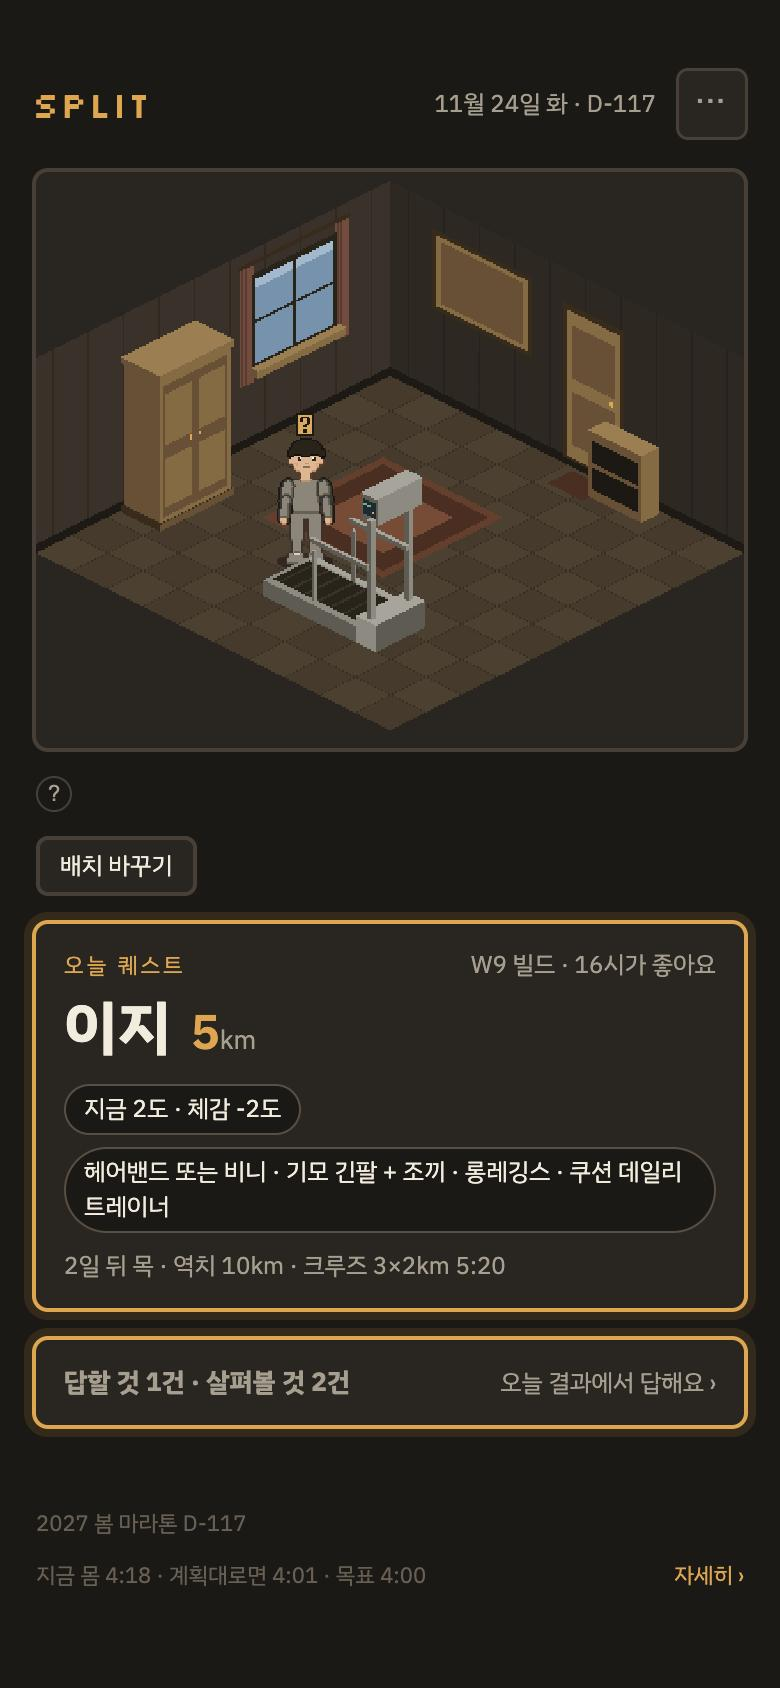
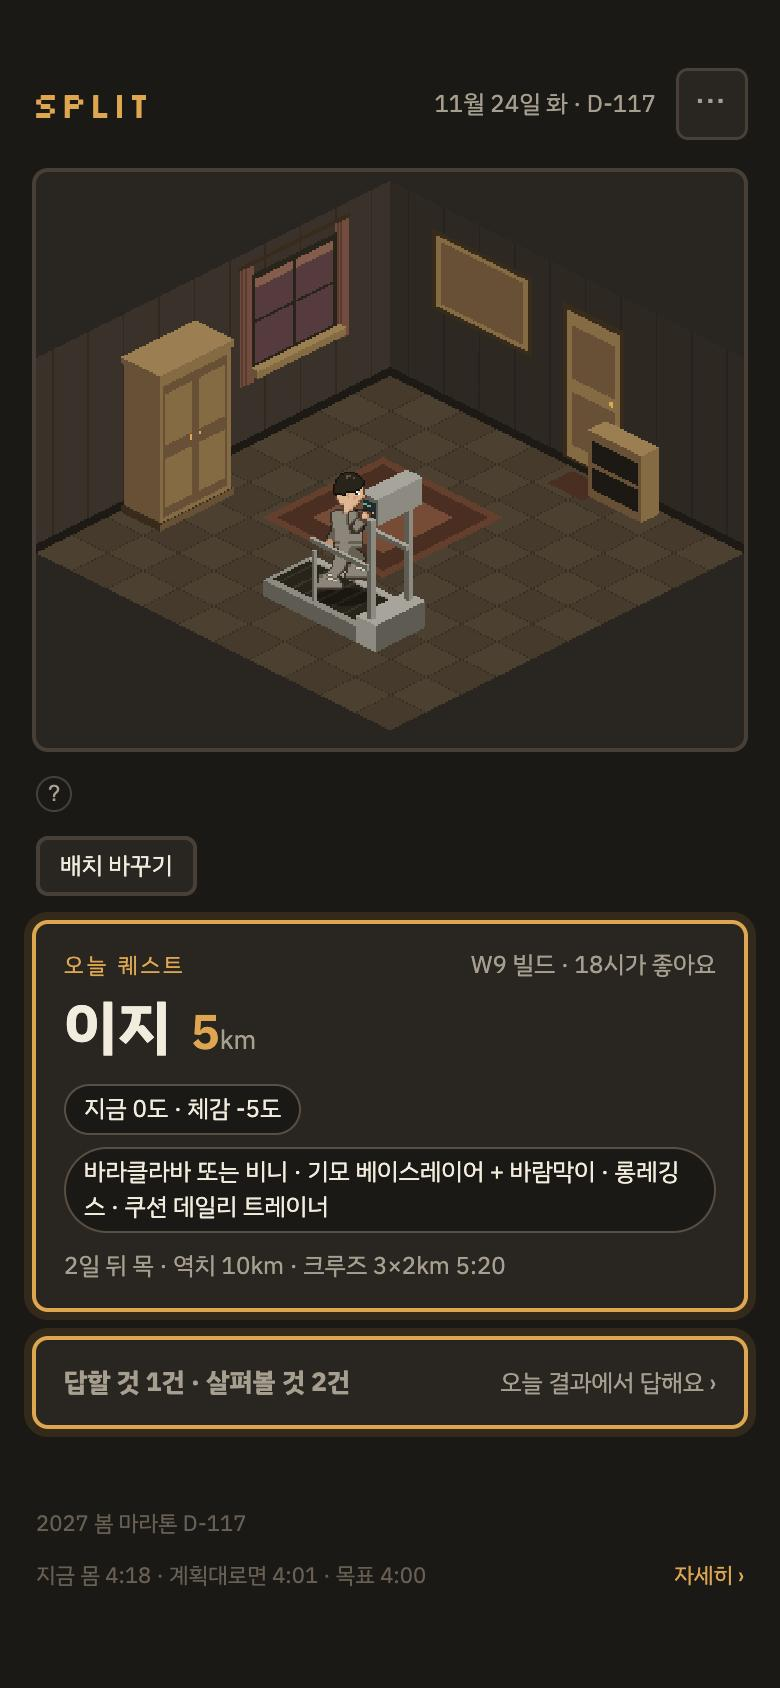
스플릿 화면 사진: 러닝머신 위 캐릭터가 뛴다 (앱 화면에서 뽑은 그림 두 장을 겹침, 그림 코드는 싣지 않음)

Changed region(s): [[0.1231, 0.6469, 0.8923, 0.7393], [0.3385, 0.2464, 0.4923, 0.3697], [0.3077, 0.1232, 0.4308, 0.2156]]

diff --git a/docs/services/split/index.html b/docs/services/split/index.html
@@ -25,12 +25,12 @@
 <main>
 <div class="sub-head feature"><div class="wrap">
 <div><p class="crumb">서비스 · 준비 중</p><p class="pixel" aria-hidden="true">SPLIT</p><h1>스플릿</h1><p class="lead">목표 대회에 맞춰 훈련 계획을 짜고, 뛴 기록에 맞춰 고쳐 주는 러닝 앱입니다.</p></div>
-<span class="shot"><img src="/img/split-room.jpg" alt="내 방 화면" loading="lazy"></span>
+<span class="shot"><img src="/img/split-room.jpg" alt="내 방 화면" loading="lazy"><span class="room" aria-hidden="true"><i></i></span></span>
 </div></div>
 <nav class="subnav" aria-label="앱 메뉴"><div class="wrap"><a href="#what">소개</a><a href="#shots">화면</a><a href="#env">사용 환경</a><a href="/split/notice/">공지사항</a><a href="/split/privacy/">개인정보처리방침</a><a href="/support/">문의</a></div></nav>
 <section id="what"><div class="wrap two"><h2>이런 앱입니다</h2><div class="values stack"><div><span class="n">01</span><h3>목표에 맞춘 계획</h3><p>대회 날짜와 목표 기록을 넣으면 그날까지의 훈련을 주 단위로 짜 줍니다.</p></div><div><span class="n">02</span><h3>뛴 만큼 다시 맞춤</h3><p>시계 기록을 읽어, 계획보다 덜 뛰었거나 더 뛰었으면 남은 계획을 고쳐 줍니다.</p></div><div><span class="n">03</span><h3>뛸수록 채워지는 내 방</h3><p>달린 기록과 대회 메달이 내 방에 쌓입니다.</p></div></div></div></section>
 <section class="line" id="shots"><div class="wrap"><div class="sec-head"><h2>화면</h2></div>
-<div class="shots"><span class="shot"><img src="/img/split-room.jpg" alt="내 방 화면" loading="lazy"></span><span class="shot"><img src="/img/split-today.jpg" alt="오늘 화면" loading="lazy"></span><span class="shot"><img src="/img/split-journey.jpg" alt="여정 화면" loading="lazy"></span></div><p class="note center">화면 속 기록은 예시입니다.</p></div></section>
+<div class="shots"><span class="shot"><img src="/img/split-room.jpg" alt="내 방 화면" loading="lazy"><span class="room" aria-hidden="true"><i></i></span></span><span class="shot"><img src="/img/split-today.jpg" alt="오늘 화면" loading="lazy"></span><span class="shot"><img src="/img/split-journey.jpg" alt="여정 화면" loading="lazy"></span></div><p class="note center">화면 속 기록은 예시입니다.</p></div></section>
 <section class="line" id="env"><div class="wrap two"><h2>사용 환경</h2><dl class="info"><dt>기기</dt><dd>아이폰, 안드로이드</dd><dt>시계 기록</dt><dd>Apple 건강, 헬스 커넥트에서 읽습니다</dd><dt>언어</dt><dd>한국어</dd><dt>상태</dt><dd>준비 중</dd></dl></div></section>
 <section class="line"><div class="wrap two"><h2>더 보기</h2>
 <div class="list"><a href="/split/notice/"><span>공지사항</span><svg class="arr" viewBox="0 0 20 20" aria-hidden="true"><path d="M4 10h11m-4.500-4.500L15 10l-4.500 4.500" fill="none" stroke="currentColor" stroke-width="1.600" stroke-linecap="round" stroke-linejoin="round"/></svg></a><a href="/split/privacy/"><span>개인정보처리방침</span><svg class="arr" viewBox="0 0 20 20" aria-hidden="true"><path d="M4 10h11m-4.500-4.500L15 10l-4.500 4.500" fill="none" stroke="currentColor" stroke-width="1.600" stroke-linecap="round" stroke-linejoin="round"/></svg></a><a href="/support/"><span>문의</span><svg class="arr" viewBox="0 0 20 20" aria-hidden="true"><path d="M4 10h11m-4.500-4.500L15 10l-4.500 4.500" fill="none" stroke="currentColor" stroke-width="1.600" stroke-linecap="round" stroke-linejoin="round"/></svg></a></div></div></section>

diff --git a/docs/en/services/split/index.html b/docs/en/services/split/index.html
@@ -25,12 +25,12 @@
 <main>
 <div class="sub-head feature"><div class="wrap">
 <div><p class="crumb">Services · Coming soon</p><p class="pixel" aria-hidden="true">SPLIT</p><h1>Split</h1><p class="lead">A running app that builds a training plan for your goal race and adjusts it to what you actually run.</p></div>
-<span class="shot"><img src="/img/split-room.jpg" alt="My Room screen" loading="lazy"></span>
+<span class="shot"><img src="/img/split-room.jpg" alt="My Room screen" loading="lazy"><span class="room" aria-hidden="true"><i></i></span></span>
 </div></div>
 <nav class="subnav" aria-label="App menu"><div class="wrap"><a href="#what">Overview</a><a href="#shots">Screens</a><a href="#env">Requirements</a><a href="/en/split/notice/">Notices</a><a href="/en/split/privacy/">Privacy policy</a><a href="/en/support/">Contact</a></div></nav>
 <section id="what"><div class="wrap two"><h2>What it does</h2><div class="values stack"><div><span class="n">01</span><h3>A plan built for your goal</h3><p>Enter your race date and target time, and it lays out the training week by week until race day.</p></div><div><span class="n">02</span><h3>Adjusts to what you ran</h3><p>It reads your watch records and reworks the rest of the plan when you ran less or more than planned.</p></div><div><span class="n">03</span><h3>A room that fills as you run</h3><p>Your runs and race medals collect in your room.</p></div></div></div></section>
 <section class="line" id="shots"><div class="wrap"><div class="sec-head"><h2>Screens</h2></div>
-<div class="shots"><span class="shot"><img src="/img/split-room.jpg" alt="My Room screen" loading="lazy"></span><span class="shot"><img src="/img/split-today.jpg" alt="Today screen" loading="lazy"></span><span class="shot"><img src="/img/split-journey.jpg" alt="Journey screen" loading="lazy"></span></div><p class="note center">Screens are shown in Korean. The records are examples.</p></div></section>
+<div class="shots"><span class="shot"><img src="/img/split-room.jpg" alt="My Room screen" loading="lazy"><span class="room" aria-hidden="true"><i></i></span></span><span class="shot"><img src="/img/split-today.jpg" alt="Today screen" loading="lazy"></span><span class="shot"><img src="/img/split-journey.jpg" alt="Journey screen" loading="lazy"></span></div><p class="note center">Screens are shown in Korean. The records are examples.</p></div></section>
 <section class="line" id="env"><div class="wrap two"><h2>Requirements</h2><dl class="info"><dt>Devices</dt><dd>iPhone, Android</dd><dt>Watch records</dt><dd>Read from Apple Health and Health Connect</dd><dt>Language</dt><dd>Korean</dd><dt>Status</dt><dd>Coming soon</dd></dl></div></section>
 <section class="line"><div class="wrap two"><h2>More</h2>
 <div class="list"><a href="/en/split/notice/"><span>Notices</span><svg class="arr" viewBox="0 0 20 20" aria-hidden="true"><path d="M4 10h11m-4.500-4.500L15 10l-4.500 4.500" fill="none" stroke="currentColor" stroke-width="1.600" stroke-linecap="round" stroke-linejoin="round"/></svg></a><a href="/en/split/privacy/"><span>Privacy policy</span><svg class="arr" viewBox="0 0 20 20" aria-hidden="true"><path d="M4 10h11m-4.500-4.500L15 10l-4.500 4.500" fill="none" stroke="currentColor" stroke-width="1.600" stroke-linecap="round" stroke-linejoin="round"/></svg></a><a href="/en/support/"><span>Contact</span><svg class="arr" viewBox="0 0 20 20" aria-hidden="true"><path d="M4 10h11m-4.500-4.500L15 10l-4.500 4.500" fill="none" stroke="currentColor" stroke-width="1.600" stroke-linecap="round" stroke-linejoin="round"/></svg></a></div></div></section>

diff --git a/docs/style.css b/docs/style.css
@@ -112,6 +112,10 @@ nav.gnb a:hover, nav.gnb a[aria-current] { border-bottom-color: var(--ink); }
 /* 앱 화면 사진 */
 .shot { display: block; width: 248px; aspect-ratio: 390 / 720; border-radius: 34px; overflow: hidden; background: #1c1915; border: 8px solid #0e0f10; box-shadow: 0 28px 60px -24px rgba(0, 0, 0, 0.55); flex: none; }
 .shot img { display: block; width: 100%; height: 100%; object-fit: cover; object-position: center top; }
+.shot { position: relative; }
+.shot .room { position: absolute; left: 4.615%; top: 11.944%; width: 90.769%; height: 40%; background: url("/img/split-room.png") 0 0 / 100% 100% no-repeat; }
+.shot .room i { position: absolute; left: 38.5%; top: 46.154%; width: 12%; height: 28.923%; background: url("/img/split-run.png") 0 0 / 800% 100% no-repeat; animation: shotRun 0.76s steps(8) infinite; }
+@keyframes shotRun { to { background-position-x: 114.2857%; } }
 .shots { display: flex; flex-wrap: wrap; gap: 40px; justify-content: center; padding: 8px 0 12px; }
 .note.center { text-align: center; }
 
@@ -265,5 +269,6 @@ footer.site { background: var(--gray); margin-top: 40px; padding: 56px 0 40px; f
 @media (prefers-reduced-motion: reduce) {
   .tile, .folder, .side, .svc, .arr { transition: none; }
   .hero-rot .hero-main.on { animation: none; }
+  .shot .room i { animation: none; }
   html { scroll-behavior: auto; }
 }

diff --git a/src/style.css b/src/style.css
@@ -112,6 +112,10 @@ nav.gnb a:hover, nav.gnb a[aria-current] { border-bottom-color: var(--ink); }
 /* 앱 화면 사진 */
 .shot { display: block; width: 248px; aspect-ratio: 390 / 720; border-radius: 34px; overflow: hidden; background: #1c1915; border: 8px solid #0e0f10; box-shadow: 0 28px 60px -24px rgba(0, 0, 0, 0.55); flex: none; }
 .shot img { display: block; width: 100%; height: 100%; object-fit: cover; object-position: center top; }
+.shot { position: relative; }
+.shot .room { position: absolute; left: 4.615%; top: 11.944%; width: 90.769%; height: 40%; background: url("/img/split-room.png") 0 0 / 100% 100% no-repeat; }
+.shot .room i { position: absolute; left: 38.5%; top: 46.154%; width: 12%; height: 28.923%; background: url("/img/split-run.png") 0 0 / 800% 100% no-repeat; animation: shotRun 0.76s steps(8) infinite; }
+@keyframes shotRun { to { background-position-x: 114.2857%; } }
 .shots { display: flex; flex-wrap: wrap; gap: 40px; justify-content: center; padding: 8px 0 12px; }
 .note.center { text-align: center; }
 
@@ -265,5 +269,6 @@ footer.site { background: var(--gray); margin-top: 40px; padding: 56px 0 40px; f
 @media (prefers-reduced-motion: reduce) {
   .tile, .folder, .side, .svc, .arr { transition: none; }
   .hero-rot .hero-main.on { animation: none; }
+  .shot .room i { animation: none; }
   html { scroll-behavior: auto; }
 }

diff --git a/docs/index.html b/docs/index.html
@@ -32,7 +32,7 @@
 </a>
 <a class="hero-main split" href="/services/split/">
 <div class="hero-copy"><span class="cat">서비스 소식 · 러닝</span><h1>목표 대회에 맞춰 <br>계획을 짜 주는 <br>러닝 앱 <span>‘스플릿’</span></h1><span class="more">자세히 보기<svg class="arr" viewBox="0 0 20 20" aria-hidden="true"><path d="M4 10h11m-4.500-4.500L15 10l-4.500 4.500" fill="none" stroke="currentColor" stroke-width="1.600" stroke-linecap="round" stroke-linejoin="round"/></svg></span></div>
-<span class="shot"><img src="/img/split-room.jpg" alt="스플릿의 내 방 화면" loading="lazy"></span>
+<span class="shot"><img src="/img/split-room.jpg" alt="스플릿의 내 방 화면" loading="lazy"><span class="room" aria-hidden="true"><i></i></span></span>
 </a>
 <div class="dots"><button type="button" aria-label="홈 정리 소식 보기" class=on></button><button type="button" aria-label="스플릿 소식 보기"></button></div>
 </div>

diff --git a/docs/en/index.html b/docs/en/index.html
@@ -32,7 +32,7 @@
 </a>
 <a class="hero-main split" href="/en/services/split/">
 <div class="hero-copy"><span class="cat">Service news · Running</span><h1><span>Split</span>, a running app <br>that plans for your goal race</h1><span class="more">Learn more<svg class="arr" viewBox="0 0 20 20" aria-hidden="true"><path d="M4 10h11m-4.500-4.500L15 10l-4.500 4.500" fill="none" stroke="currentColor" stroke-width="1.600" stroke-linecap="round" stroke-linejoin="round"/></svg></span></div>
-<span class="shot"><img src="/img/split-room.jpg" alt="The My Room screen in Split" loading="lazy"></span>
+<span class="shot"><img src="/img/split-room.jpg" alt="The My Room screen in Split" loading="lazy"><span class="room" aria-hidden="true"><i></i></span></span>
 </a>
 <div class="dots"><button type="button" aria-label="Show Home Tidy news" class=on></button><button type="button" aria-label="Show Split news"></button></div>
 </div>

diff --git a/build.py b/build.py
@@ -248,7 +248,11 @@ def home_tidy(t):
 
 def shot(name, alt):
     """휴대전화 틀에 넣은 앱 화면 (src/img/<name>.jpg)."""
-    return f'<span class="shot"><img src="/img/{name}.jpg" alt="{e(alt)}" loading="lazy"></span>'
+    # 스플릿의 내 방 화면은 러닝머신 위 캐릭터가 뛴다. 그림 코드를 싣지 않고 앱 화면에서 뽑은 그림 두 장을 쓴다:
+    # split-room.png (방 한 장, 400×325) 위에 split-run.png (달리는 여덟 장면, 48×94 씩)를 같은 자리에 얹는다.
+    # 자리는 화면 사진 안에서 방이 놓인 곳 (390×720 가운데 18,86 에서 354×288) — style.css 의 .shot .room.
+    run = '<span class="room" aria-hidden="true"><i></i></span>' if name == "split-room" else ""
+    return f'<span class="shot"><img src="/img/{name}.jpg" alt="{e(alt)}" loading="lazy">{run}</span>'
 
 
 def app_menu(t, items, notice_key, privacy_key):
